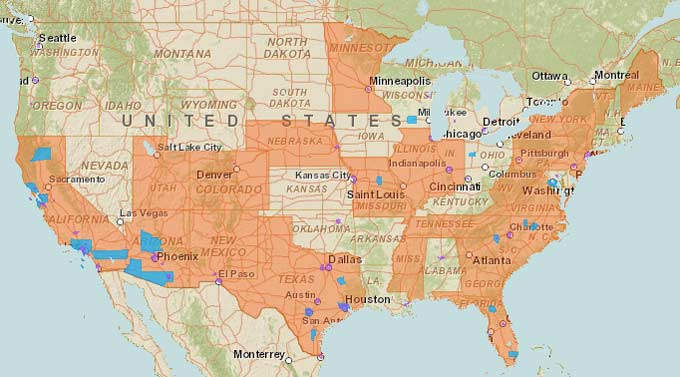
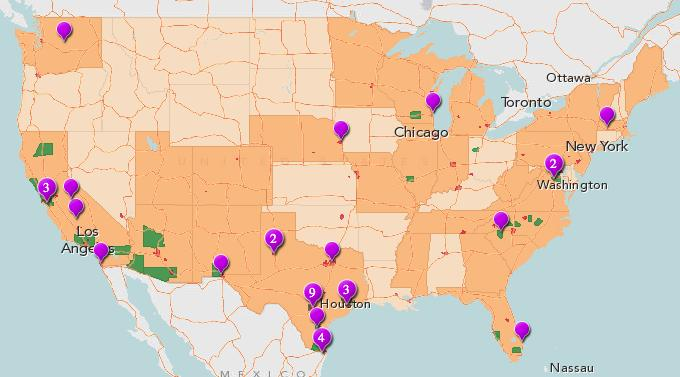
Salud map imagery and links
updating links to map and replacing map images. Incremented stylesheet
for cache busting.

diff --git a/style.css b/style.css
@@ -671,12 +671,10 @@ div#signup-avatar img {
   margin-top: 5px;
   outline: none;
 }
-.standard-form #basic-details-section,
-.standard-form #blog-details-section,
-.standard-form #profile-details-section {
+.register-section {
   float: none;
   width: 100%;
-  margin-bottom: 4em;
+  margin-bottom: 3em;
 }
 form#signup_form .field-visibility-settings fieldset {
   margin-top: 1em;
@@ -4078,9 +4076,7 @@ body.home-page #primary .quarter-block h3 {
   div#item-header .activity {
     margin-left: 2em;
   }
-  .standard-form #basic-details-section,
-  .standard-form #blog-details-section,
-  .standard-form #profile-details-section {
+  .register-section {
     float: left;
     width: 48%;
   }

diff --git a/style-ie.css b/style-ie.css
@@ -663,12 +663,10 @@ div#signup-avatar img {
   margin-top: 5px;
   outline: none;
 }
-.standard-form #basic-details-section,
-.standard-form #blog-details-section,
-.standard-form #profile-details-section {
+.register-section {
   float: none;
   width: 100%;
-  margin-bottom: 4em;
+  margin-bottom: 3em;
 }
 form#signup_form .field-visibility-settings fieldset {
   margin-top: 1em;
@@ -4063,9 +4061,7 @@ div#item-header .highlight,
 div#item-header .activity {
   margin-left: 2em;
 }
-.standard-form #basic-details-section,
-.standard-form #blog-details-section,
-.standard-form #profile-details-section {
+.register-section {
   float: left;
   width: 48%;
 }

diff --git a/css/default.less b/css/default.less
@@ -696,9 +696,14 @@ div#signup-avatar img {
 .standard-form #basic-details-section,
 .standard-form #blog-details-section,
 .standard-form #profile-details-section {
+	// float: none;
+	// width: 100%;
+	// margin-bottom: 4em;
+}
+.register-section {
 	float: none;
 	width: 100%;
-	margin-bottom: 4em;
+	margin-bottom: 3em;
 }
 form#signup_form .field-visibility-settings fieldset {
 	margin-top: 1em;

diff --git a/css/800.less b/css/800.less
@@ -624,6 +624,10 @@ div#item-header {
 .standard-form #basic-details-section,
 .standard-form #blog-details-section,
 .standard-form #profile-details-section {
+	// float: left;
+	// width: 48%;
+}
+.register-section {
 	float: left;
 	width: 48%;
 }

diff --git a/page-templates/salud-america.php b/page-templates/salud-america.php
@@ -53,8 +53,8 @@ get_header(); ?>
 
 						<div class="half-block">
 							<h4 style="margin-top:0;">By Location</h4>
-							<a href="http://www.communitycommons.org/sapolicies/"><img src='http://dev.communitycommons.org/wp-content/uploads/2013/08/Salud_Location_Map.png' alt='Map of Changes'class="no-box"></a>
-			                <a href='http://dev.communitycommons.org/sapolicies/'>Browse changes happening in your area</a>
+							<a href="http://staging.maps.communitycommons.org/policymap/" title="link to interactive map of changes"><img src="<?php echo get_stylesheet_directory_uri(); ?>/img/salud_america/salud_location_map.png" alt='Map of Changes' class="no-box"></a>
+			                <a href="http://staging.maps.communitycommons.org/policymap/">Browse changes happening in your area</a>
 						</div>
 					</div>
 					<h4 style="margin-left:3%;">Recent Changes</h4>

diff --git a/functions.php b/functions.php
@@ -118,7 +118,7 @@ function custom_childtheme_stylesheet_load(){
           'commons_retheme_stylesheet',
           get_stylesheet_uri(),
           false,
-          0.31
+          0.32
       );
   wp_enqueue_style( 'commons_retheme_stylesheet' );
 }
